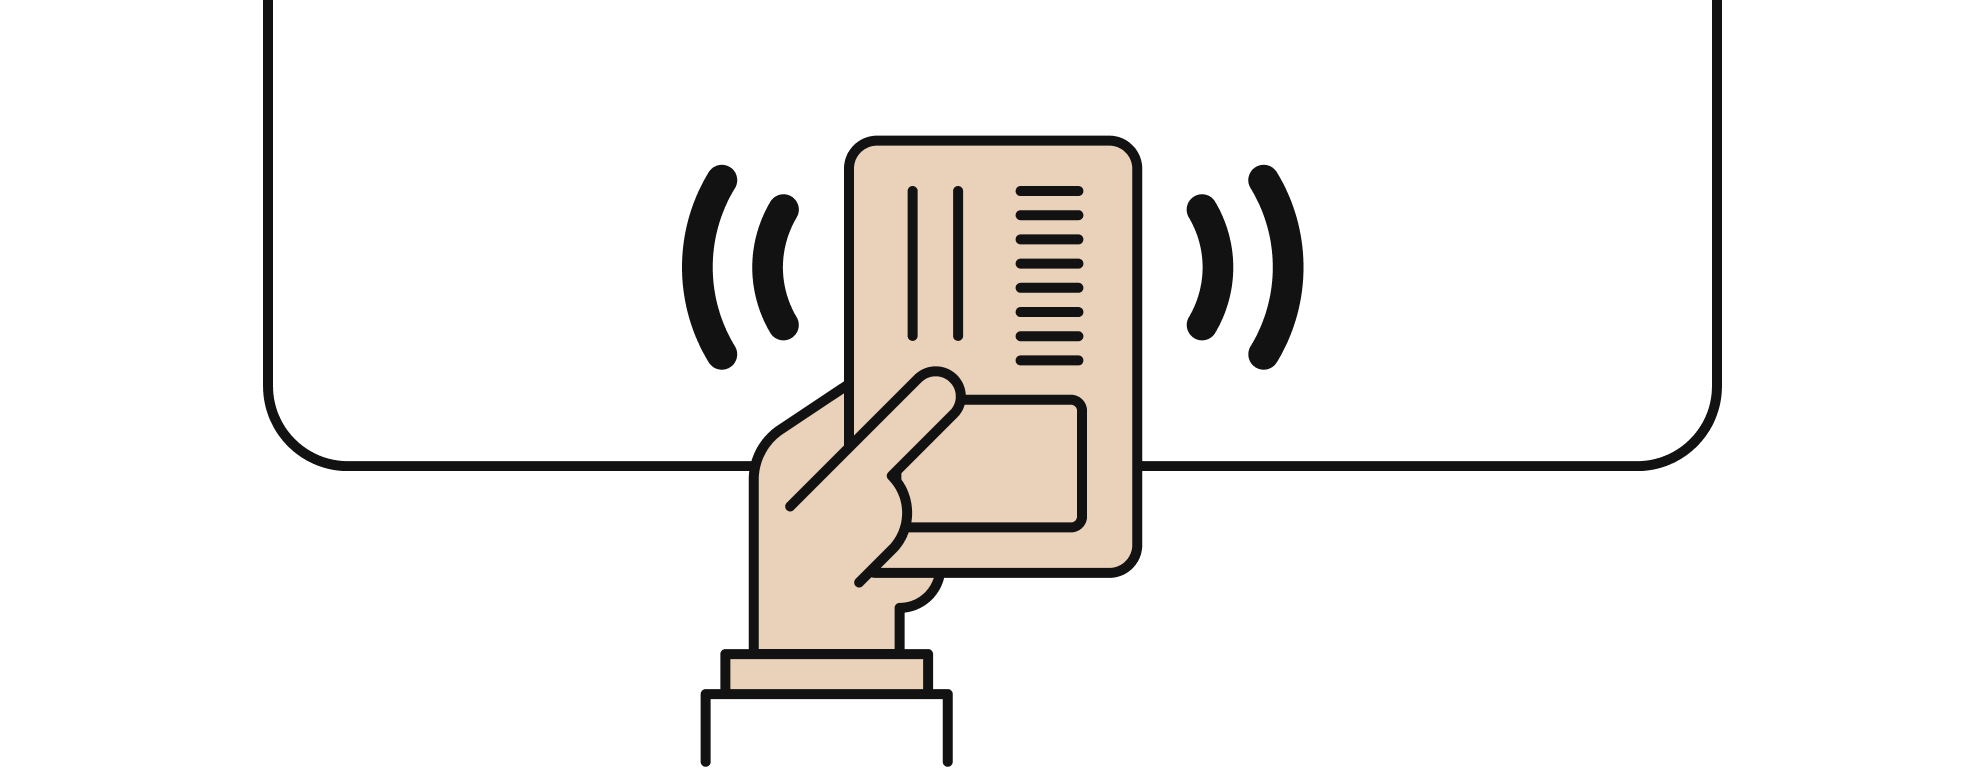
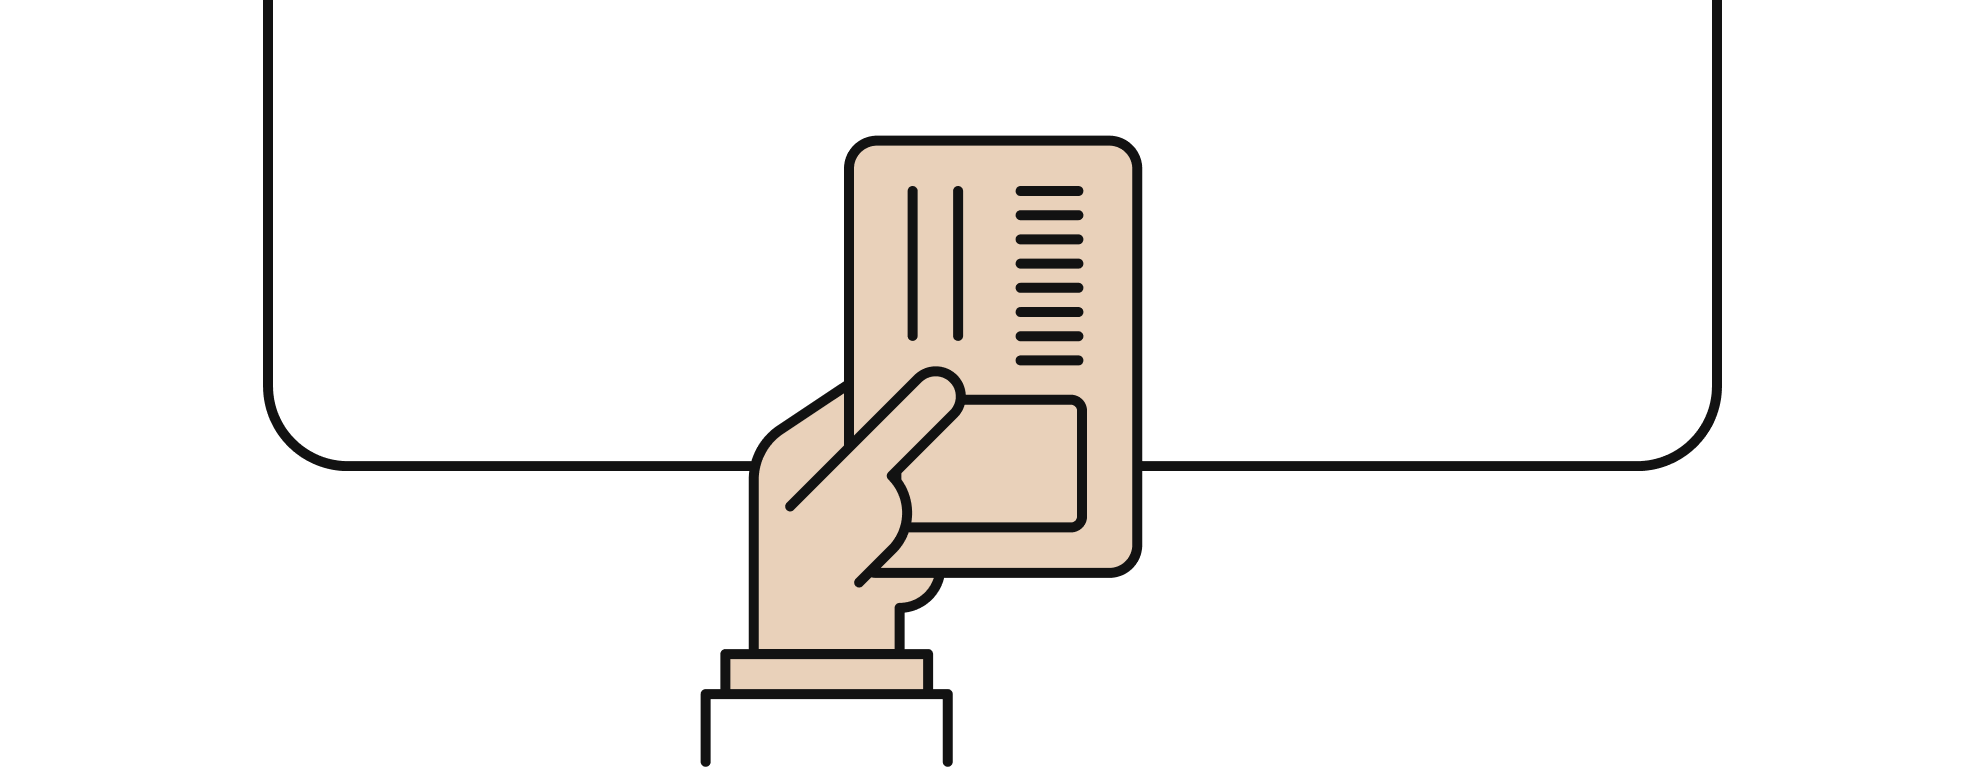
[feat] rfid 애니메이션 추가

Changed region(s): [[0.5935, 0.2185, 0.6559, 0.4993], [0.3436, 0.2185, 0.406, 0.4993]]

diff --git a/resources/ict/css/kiosk/rfid.css b/resources/ict/css/kiosk/rfid.css
@@ -46,6 +46,50 @@
   height: 769px;
 }
 
+.rfid {
+  width: 1984px;
+  height: 768px;
+  background: url("../../../ict/img/kiosk/rfid.png") no-repeat center center;
+  background-size: cover;
+  position: relative;
+}
+
+.rfid img:first-child {
+  width: 116px;
+  height: 204px;
+  position: absolute;
+  top: 165px;
+  left: 682px;
+  animation: moveLeftRight 0.5s infinite alternate;
+}
+
+@keyframes moveLeftRight {
+  0% {
+    transform: translateX(0);
+  }
+  100% {
+    transform: translateX(20px);
+  }
+}
+
+.rfid img:nth-child(2) {
+  width: 116px;
+  height: 204px;
+  position: absolute;
+  top: 165px;
+  right: 684px;
+  animation: moveRightLeft 0.5s infinite alternate;
+}
+
+@keyframes moveRightLeft {
+  0% {
+    transform: translateX(0) scaleX(-1);
+  }
+  100% {
+    transform: translateX(-20px) scaleX(-1);
+  }
+}
+
 @media (width: 1080px) {
   .rfid_content {
     padding-bottom: 50px;
@@ -64,8 +108,42 @@
     margin-bottom: 150px;
   }
 
-  .main_content img {
+  .rfid {
     width: 992px;
     height: 384px;
+  }
+
+  .rfid img:first-child {
+    width: 58px;
+    height: 102px;
+    top: 82px;
+    left: 341px;
+    animation: moveLeftRight 0.5s infinite alternate;
+  }
+
+  @keyframes moveLeftRight {
+    0% {
+      transform: translateX(0);
+    }
+    100% {
+      transform: translateX(10px);
+    }
+  }
+
+  .rfid img:nth-child(2) {
+    width: 58px;
+    height: 102px;
+    top: 82px;
+    right: 342px;
+    animation: moveRightLeft 0.5s infinite alternate;
+  }
+
+  @keyframes moveRightLeft {
+    0% {
+      transform: translateX(0) scaleX(-1);
+    }
+    100% {
+      transform: translateX(-10px) scaleX(-1);
+    }
   }
 }

diff --git a/WEB-INF/views/app/ict/kiosk/rfid.html b/WEB-INF/views/app/ict/kiosk/rfid.html
@@ -49,7 +49,10 @@
 						<div class="rfid_content">
 							<div class="title">RFID 로그인</div>
 							<div class="caption">기기 하단의 회원증 인식부에 회원증을 올려주세요</div>
-							<img src="/resources/ict/img/kiosk/rfid.png" alt="" />
+							<div class="rfid">
+								<img src="/resources/ict/img/kiosk/rfid_feat.png" alt="" />
+								<img src="/resources/ict/img/kiosk/rfid_feat.png" alt="" />
+							</div>
 						</div>
 					</div>
 				</div>
